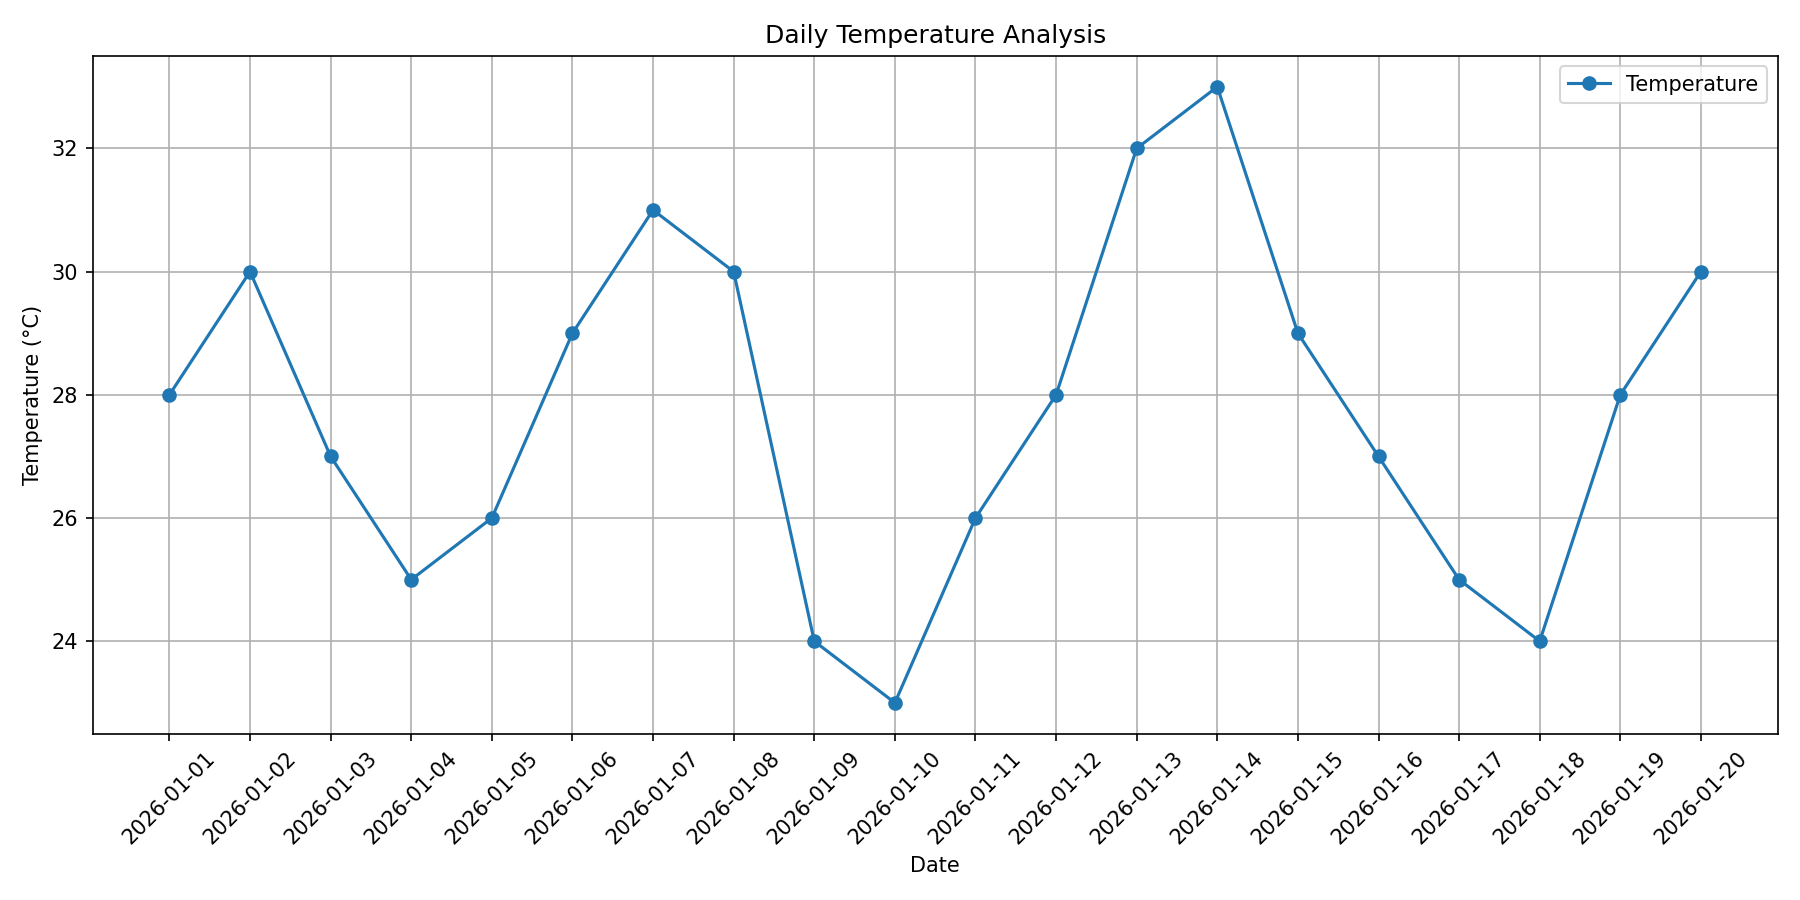
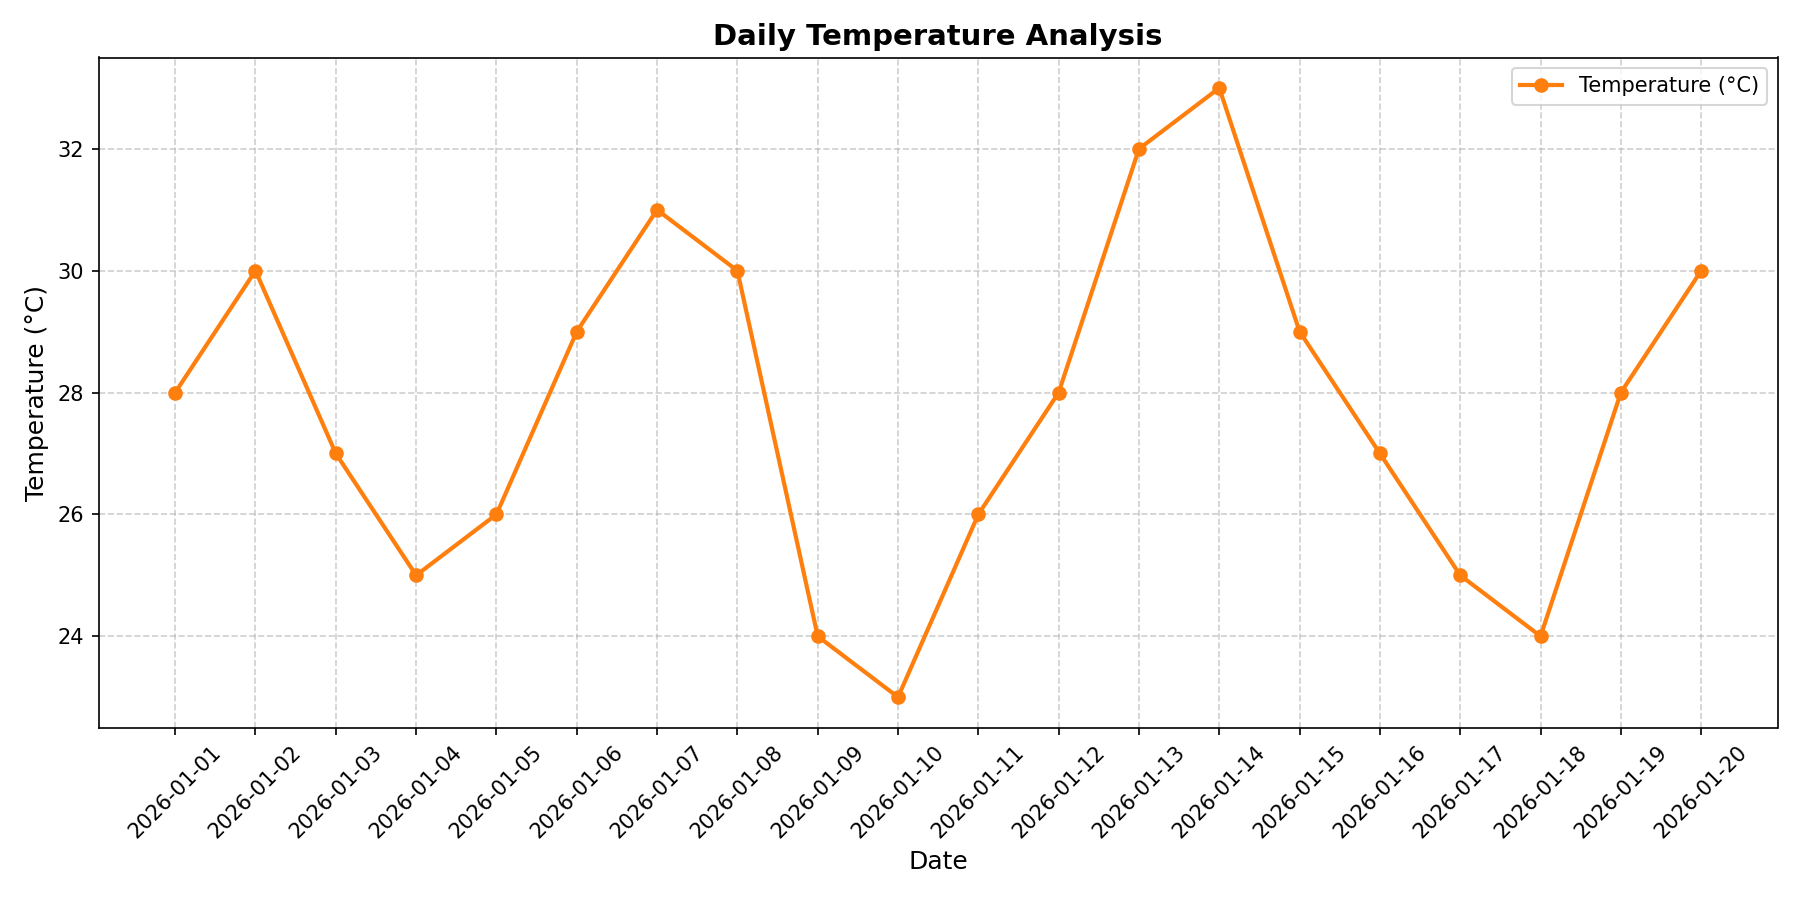
Clean temporary files, fix Matplotlib blocking/memory bugs, and add generated visualizations

diff --git a/src/temperature_chart.py b/src/temperature_chart.py
@@ -1,4 +1,3 @@
-
 import csv
 from pathlib import Path
 import matplotlib.pyplot as plt
@@ -20,21 +19,20 @@ with csv_file.open("r", newline="", encoding="utf-8") as file:
 
 # Create the line chart
 plt.figure(figsize=(12, 6))
-plt.plot(dates, temperatures, marker="o", label="Temperature")
+plt.plot(dates, temperatures, marker="o", color="tab:orange", label="Temperature (°C)", linewidth=2)
 
-plt.title("Daily Temperature Analysis")
-plt.xlabel("Date")
-plt.ylabel("Temperature (°C)")
+plt.title("Daily Temperature Analysis", fontsize=14, fontweight="bold")
+plt.xlabel("Date", fontsize=12)
+plt.ylabel("Temperature (°C)", fontsize=12)
 plt.xticks(rotation=45)
-plt.grid(True)
-plt.legend()
+plt.grid(True, linestyle="--", alpha=0.6)
+plt.legend(loc="upper right")
 plt.tight_layout()
 
 # Save the chart
 output_file = project_dir / "visualizations" / "temperature_chart.png"
 output_file.parent.mkdir(parents=True, exist_ok=True)
 plt.savefig(output_file, dpi=150)
+plt.close()
 
-print(f"Chart saved to: {output_file}")
-plt.show()
-
+print(f"Temperature chart successfully saved to: {output_file}")

diff --git a/src/rainfall_humidity_chart.py b/src/rainfall_humidity_chart.py
@@ -43,5 +43,6 @@ plt.tight_layout()
 output_file = project_dir / "visualizations" / "rainfall_humidity_chart.png"
 output_file.parent.mkdir(parents=True, exist_ok=True)
 plt.savefig(output_file, dpi=150)
+plt.close()
 
-print(f"Rainfall & Humidity chart saved to: {output_file}")
+print(f"Rainfall & Humidity chart successfully saved to: {output_file}")
